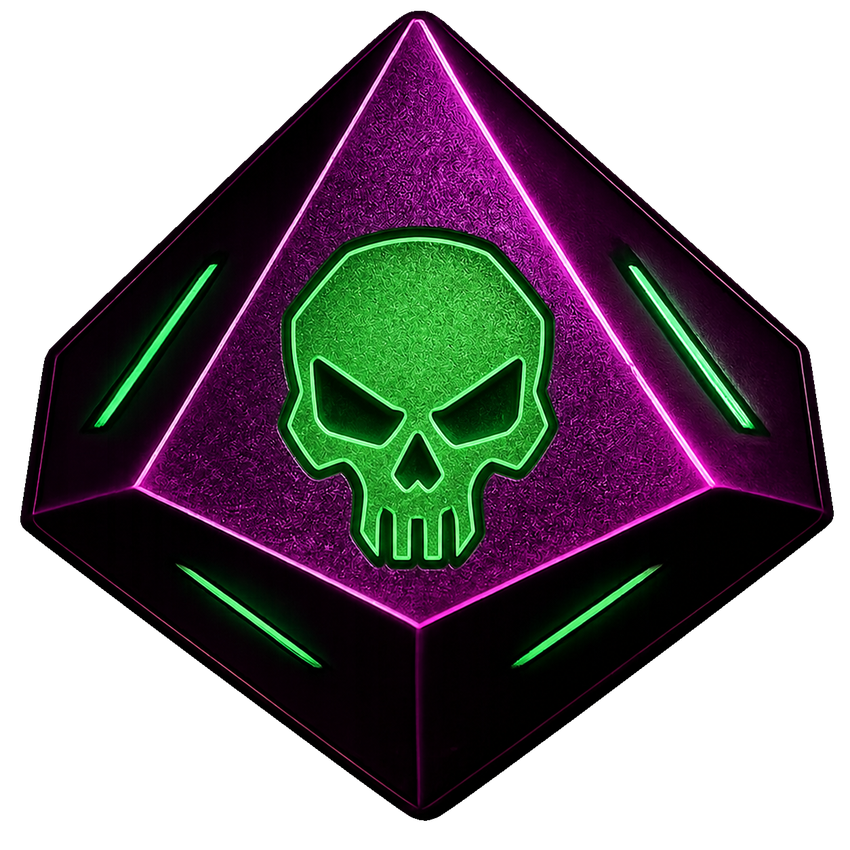
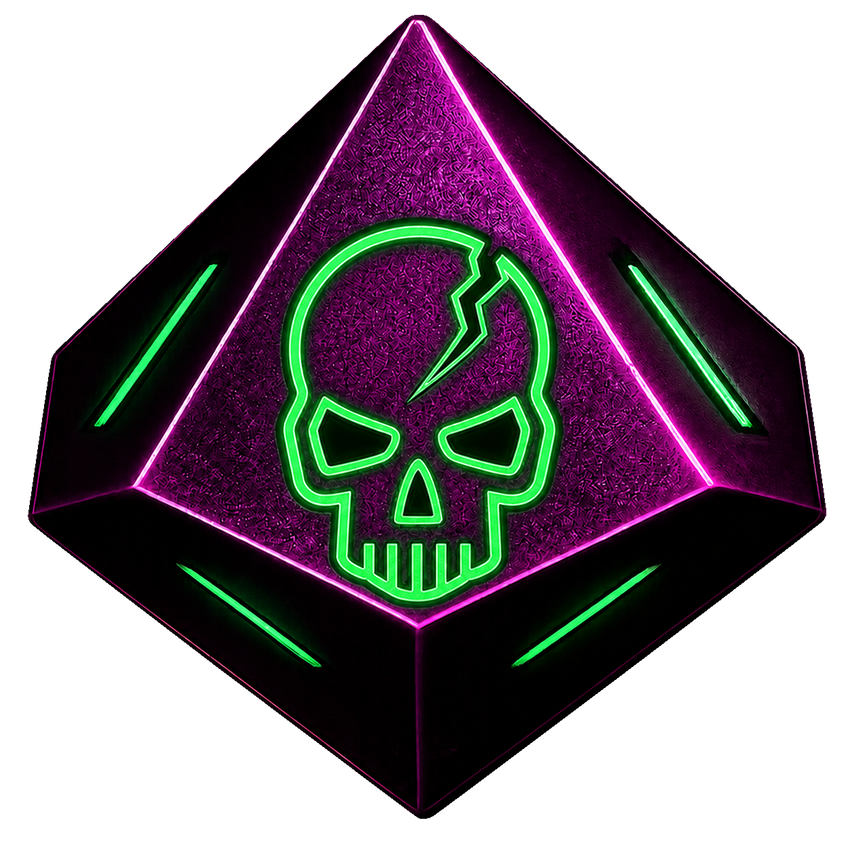
Match purple fumble die to cracked skull art

diff --git a/README.md b/README.md
@@ -25,13 +25,13 @@ https://github.com/GMPneuma/PneumaChatDice/releases
 | Standard D10, faces 1-10 | Purple with green accents |
 | Critical follow-up D10, faces 1-10 | Red with blue accents |
 | Critical success D10 | Red/blue flame |
-| Critical failure D10 | Red/blue cracked skull |
+| Critical failure D10 | Color-matched cracked skull |
 | Standard D6, faces 1-6 | Purple with green accents |
 | Critical-success D6 showing 6 | Red/blue PREEM 6 |
 
 ## Compatibility
 
-Version 0.2.4 targets:
+Version 0.2.5 targets:
 
 - Foundry Virtual Tabletop 11-12
 - Cyberpunk RED - CORE v0.88.2
